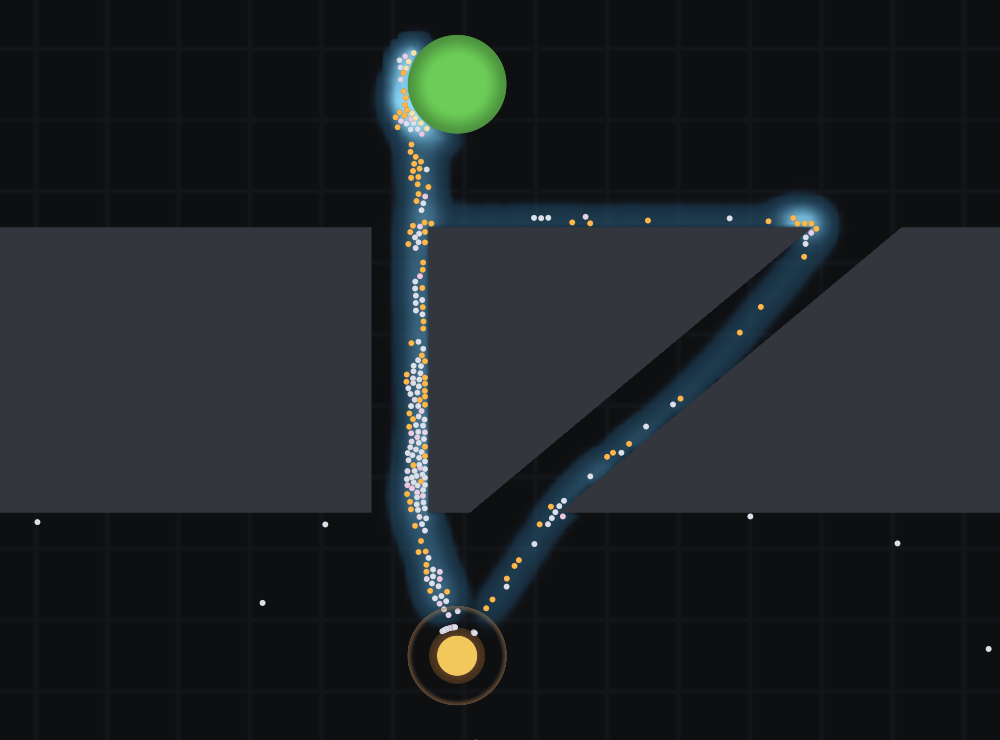
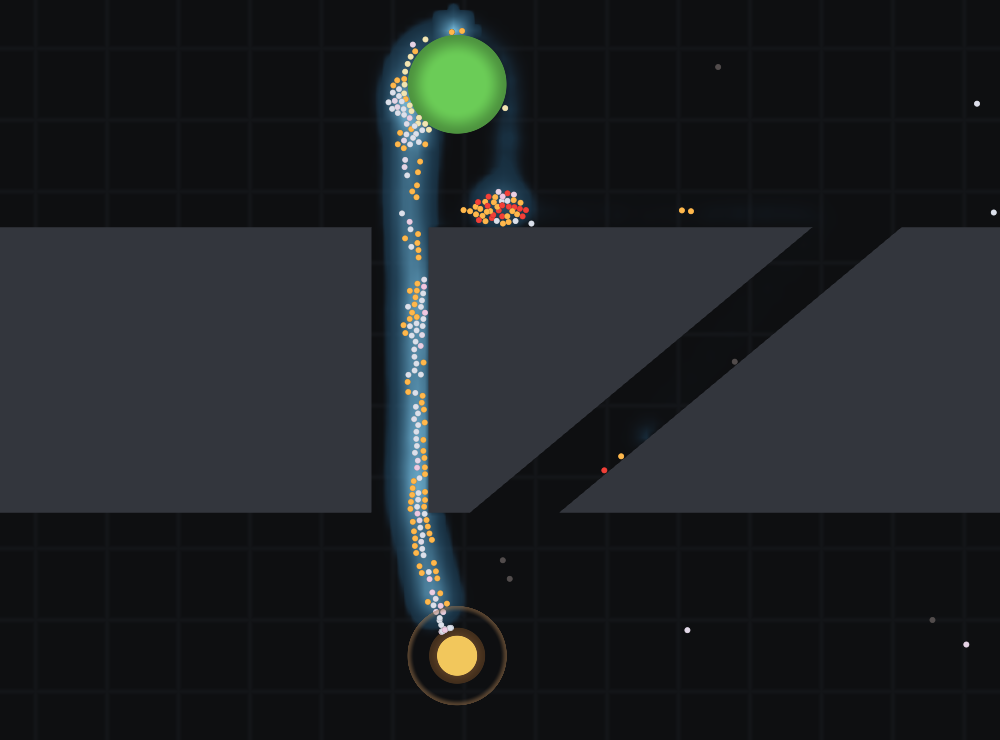
docs: the M6 gallery — half an hour on one page, and a second animal
Two questions the existing stills could not answer: when a colony does
what it does, and what a different animal would do on the same arena.

docs/M6-gallery.md reads the ninety-one-frame contact sheet as a
sequence — trail 0 at 0-20 s, 959 at 40 s, 17 954 at 2 min, 50 129 at
5 min, 82 692 at 20 min, a peak of 116 994 at 26 min, and then 2 594
four minutes later when the source runs out. That last collapse is a
factor of forty-five with nothing deciding it: no ant knows the pile is
empty, they simply stop reinforcing and evaporation does the rest. It
is the argument for committing a sheet rather than a still, because
sampling at twenty and thirty minutes would have put the whole collapse
between two pictures.

The species pair is taken at ten minutes rather than twenty, where
03-trail.png sits. At twenty Formica has already stripped the pile and
its 600 s trail has decayed; that frame is an aftermath, and set beside
a working Lasius colony it would read as a result about trail-following
when it is an artefact of photographing two different situations.

The document also refuses the reading its own numbers invite: Formica
harvests 1145 against Lasius's 640, but it walks at twice the speed and
1145/640 is 1.79. Nearly all of that gap is pace, and two animals that
differ in eighteen parameters cannot attribute an outcome to one of
them.

All seventeen images are regenerated in the same pass, so the pictures
and the quoted numbers describe the same build. 16-timelapse.png in
[…]

Changed region(s): [[0.372, 0.0, 0.837, 0.8703], [0.992, 0.2797, 1.0, 0.3108]]

diff --git a/docs/M6-gallery.md b/docs/M6-gallery.md
@@ -1,0 +1,153 @@
+# Half an hour, and two animals
+
+The M6 gallery. Two questions the earlier pictures could not answer:
+*when* does a colony do what it does, and *what would a different animal
+do instead*.
+
+Every image here is generated — `make gallery` and `make timelapse` —
+from a fixed seed, so the pictures cannot drift away from what the
+simulation does. Every number quoted is printed by those same runs, and
+the pictures and the numbers were regenerated together, so each describes
+the other rather than an earlier version of it.
+
+---
+
+## Half an hour on one page
+
+[`docs/DIARY.md`](DIARY.md) shows a colony at five seconds, forty
+seconds, five minutes and twenty minutes. Those are the right moments,
+and choosing them is the problem: a still is an argument about which
+instant mattered, and the reader has to take it on trust.
+
+So here is the whole run instead. Ninety-one frames, twenty simulated
+seconds apart, every one captioned with its own clock.
+
+![Ninety-one small frames tiled into a grid, each showing the same arena at a twenty-second interval: an empty dark field at first, then a thin trail from nest to food, then a thick bright road that persists for most of the page, then a rapid fade to nothing in the last few tiles](images/16-timelapse.png)
+
+<sub>*Time runs left to right, then down. The green disc is the food
+source and it visibly shrinks; the orange disc at the bottom is the nest.
+Blue is trail pheromone, and it is drawn on a diverging map that turns at
+the detection threshold — dim below `k`, bright above it — so the colour
+says* is this enough to commit to *without a legend
+([§5.3](concept.md#53-colour)).*</sub>
+
+The shape of a foraging run, read off the sheet and confirmed by the
+totals the run printed:
+
+| | | |
+|---|---|---|
+| **0–20 s** | trail exactly **0** | not one ant has reached the food and come back. Everything moving on those two tiles is the correlated random walk of [§3.2](concept.md#32-individual-movement) running with nothing to read |
+| **40 s** | trail **959** | one thread |
+| **2 min** | trail **17 954** | a road |
+| **5 min** | trail **50 129** | established, and it stays in that band for twenty minutes |
+| **20 min** | **293** ants, trail **82 692** | the colony has doubled on the food it is bringing in ([§3.10](concept.md#310-colony-growth--a-population-not-a-headcount)) |
+| **26 min** | trail **116 994** | the peak |
+| **30 min** | **411** ants, trail **2 594** | the source is gone |
+
+The last row is the one worth staring at. **The trail falls from 116 994
+to 2 594 in four minutes** — a factor of forty-five — and nothing decided
+that. No ant knows the pile is empty; there is no signal for it and no
+rule anywhere that says *stop*. Ants simply stop finding food, so they
+stop reinforcing, and evaporation does the rest. The collapse is the
+decay constant made visible, and it is at the *end* of the sheet rather
+than in the middle of it because the source lasted twenty-six minutes.
+
+That is also the honest answer to why the sheet is worth committing when
+a still is cheaper. Twenty-five of these tiles are nearly identical, and
+that is information: the trail is *stable*, not merely present. Four of
+them are not, and if the gallery had sampled at twenty and thirty minutes
+the entire collapse would have happened between two pictures.
+
+The population, meanwhile, goes 150 → 411 without a single tile making it
+obvious. Growth is the slow variable here and traffic is the fast one, so
+the sheet shows the road and the counters show the colony — which is the
+argument for the run printing its numbers alongside the frames rather
+than instead of them.
+
+---
+
+## Two animals, one arena
+
+*Lasius niger* is the animal this model was built for and every default
+in `src/params.lisp` describes it. M6 added a second parameter set, so
+the same arena can be run with a different animal in it
+([§3.1](concept.md#31-species-and-the-scale-it-sets)).
+
+Both frames below are the same world, the same seed, the same obstacle,
+the same source, at the same moment — **ten minutes**. The only
+difference between the two runs is the value of one key in the scenario
+file.
+
+![A wide bright blue road running from the nest at the bottom to the food at the top, splitting around a grey obstacle bar and carrying a dense two-way stream of ants](images/17-lasius.png)
+
+<sub>***Lasius niger.*** *A committed road. Trail total **49 181**. The
+road is wide because hundreds of ants are laying on top of one another's
+marks, and it loops around the obstacle because that is where the first
+successful ants happened to go — the colony is following its own history,
+not the geometry.*</sub>
+
+![The same arena with almost no visible trail: a faint narrow line from nest to food, and individual ants scattered evenly across the entire field](images/18-formica.png)
+
+<sub>***Formica polyctena.*** *The same ten minutes. Trail total
+**3 397** — fourteen times less. There is a line, and it is nearly
+straight, and it is one ant wide.*</sub>
+
+The contrast is the point, and it is not a matter of one animal being
+worse at this. *Lasius* is a mass recruiter: it converts a small
+difference between two routes into a committed trail, collectively,
+through the chemistry, with no individual knowing anything
+([§3.3](concept.md#33-pheromones--the-field-and-the-nonlinearity-that-matters)).
+*Formica polyctena* is the same problem solved from the other end — a
+poor trail follower that navigates by remembered route, so what you see
+is not a gradient being followed but a path being walked. The scattered
+ants everywhere are not lost; they are the individual exploration that a
+weak trail does not suppress.
+
+The model produces that difference from eighteen numbers and no new code
+at all. The trail is weakened three ways at once — deposition, following
+fidelity, and the time constant — and the route memory is turned up,
+because those are the two halves of the same animal
+([config.md](config.md#species-31) has the full table).
+
+### One number in these pictures is not what it looks like
+
+Formica harvests **1145** units by ten minutes against Lasius's **640**,
+and it would be easy to write that up as *the route beats the trail*.
+
+It is not that. Formica also walks at 4 cm/s against 2, and 1145/640 is
+1.79 against a speed ratio of 2.0. **Nearly all of the harvest difference
+is pace**, and a comparison of two animals that differ in eighteen
+parameters cannot attribute an outcome to any one of them.
+
+What these two frames *do* support is the claim about the trail, because
+that one is a fourteen-fold difference in a quantity neither animal's
+walking speed appears in. The measurements that separate the rest are in
+[experiments.md](experiments.md).
+
+There is a second trap in this pair, and it decided which moment they
+were taken at. At twenty minutes — where `03-trail.png` is taken — Formica
+has already stripped the whole 2500-unit pile, and its trail, on a 600 s
+time constant against Lasius's 1800, has decayed to nothing. That frame
+shows an *aftermath*. Put beside a Lasius colony still working, it would
+read as a devastating result about trail-following and would be an
+artefact of photographing two different situations.
+
+---
+
+## What is not here
+
+No video. A frame sequence piped to `ffmpeg` was considered at M2 and
+[§5.5](concept.md#55-the-live-window-and-why-the-camera-comes-early)
+records the judgement: no new dependency, fine for sharing results,
+useless for interaction. `render-timelapse` will write the frames if
+asked — `(render-timelapse-demo :frames t)` — and they are deliberately
+not the committed artefact. `png.lisp` writes stored deflate blocks so
+that the renderer needs no compression dependency
+([§4.1](concept.md#41-systems-and-files)), which means a frame costs
+860 kB whatever is in it and half an hour of them is some 300 MB. The
+contact sheet is one file and reads as a sequence, which a directory does
+not.
+
+No macOS. [§7](concept.md#7-milestones) explains why at length, and the
+short version is that Apple froze OpenGL at 4.1 in 2018 and this renderer
+needs 4.4.

diff --git a/README.md b/README.md
@@ -224,6 +224,10 @@ and a result are different things.
 - **[docs/DIARY.md](docs/DIARY.md)** — what a run actually looks like, frame by
   frame, and the eight failures that were caught by watching rather than by
   counting.
+- **[docs/M6-gallery.md](docs/M6-gallery.md)** — half an hour of one colony
+  on a single page, and the same arena run with a different animal in it. What
+  a trail's collapse looks like when nothing decides it, and which number in a
+  two-species comparison is not the one it appears to be.
 - **[docs/WHYLISP.md](docs/WHYLISP.md)** — why Common Lisp and SBCL are the
   right tools for this, argued against the code rather than in the abstract.
 - **[docs/config.md](docs/config.md)** — every switch, its default, and where to
